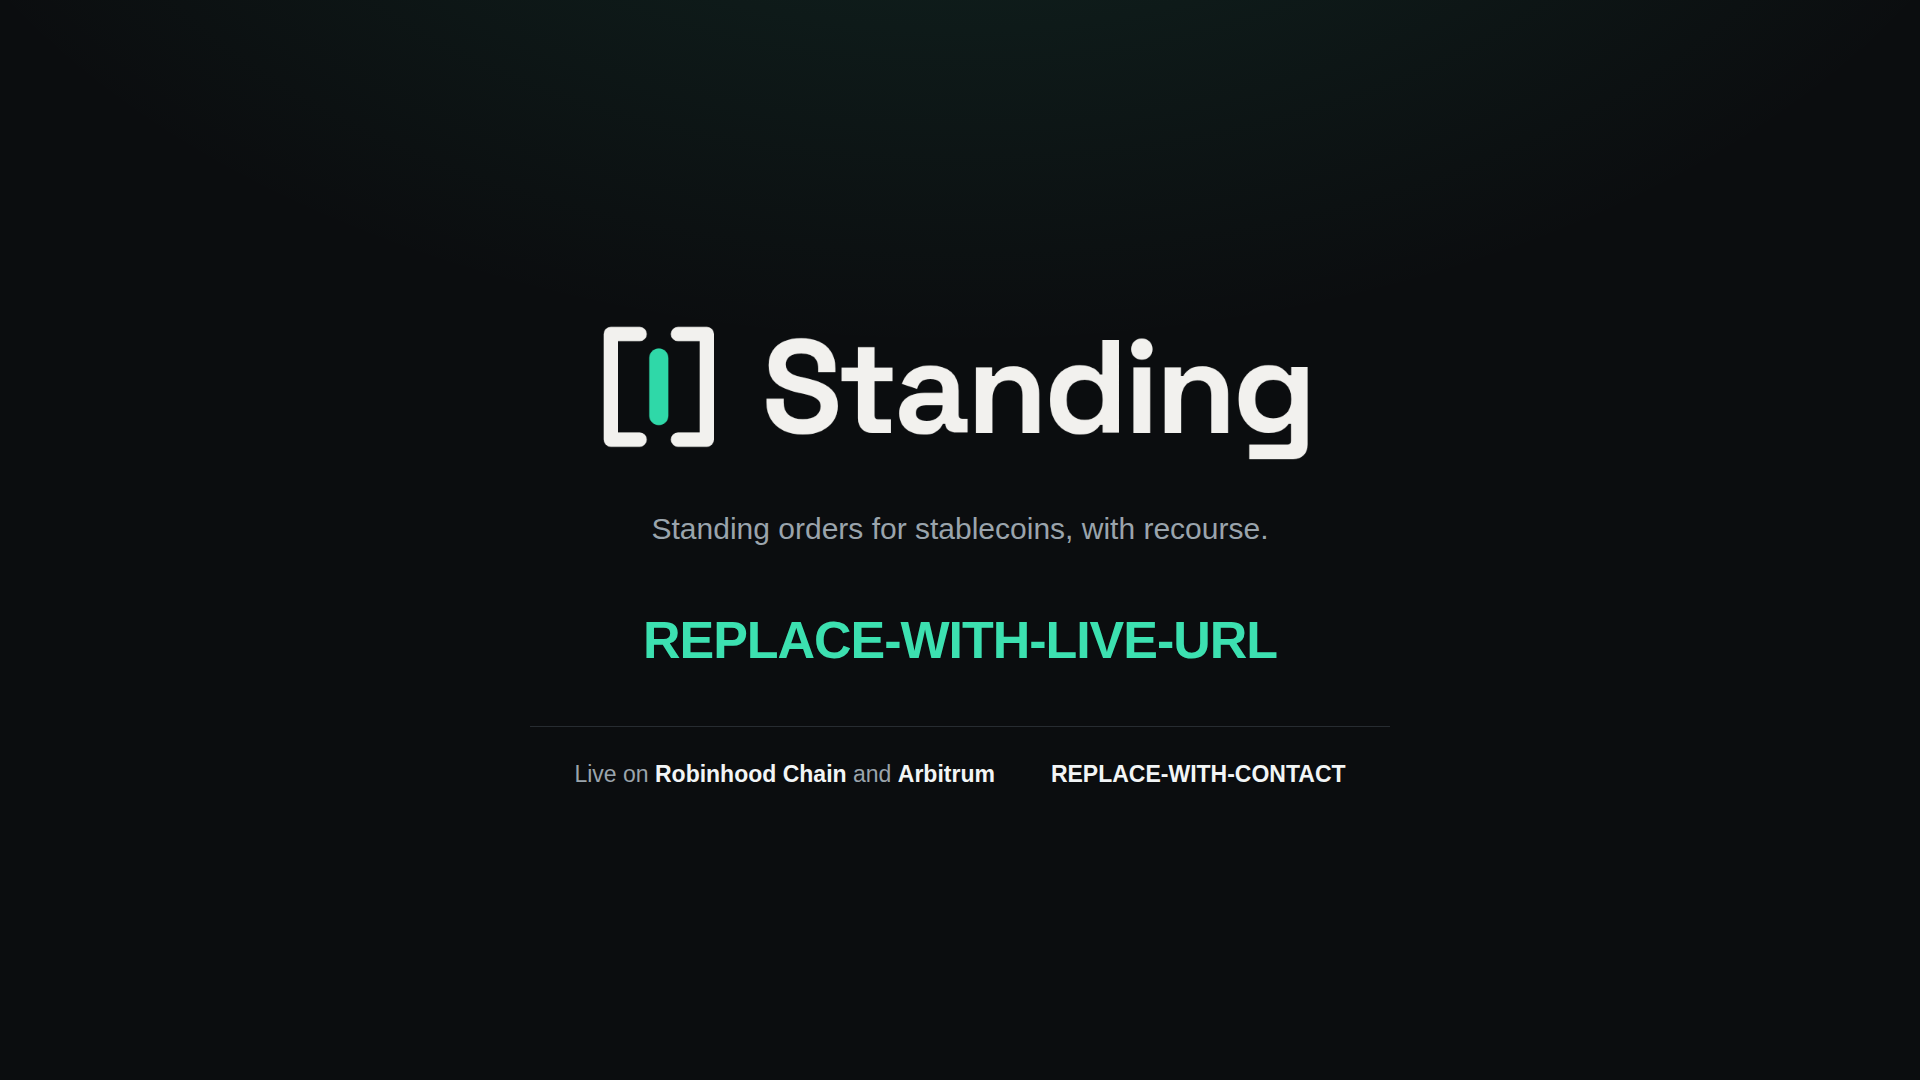
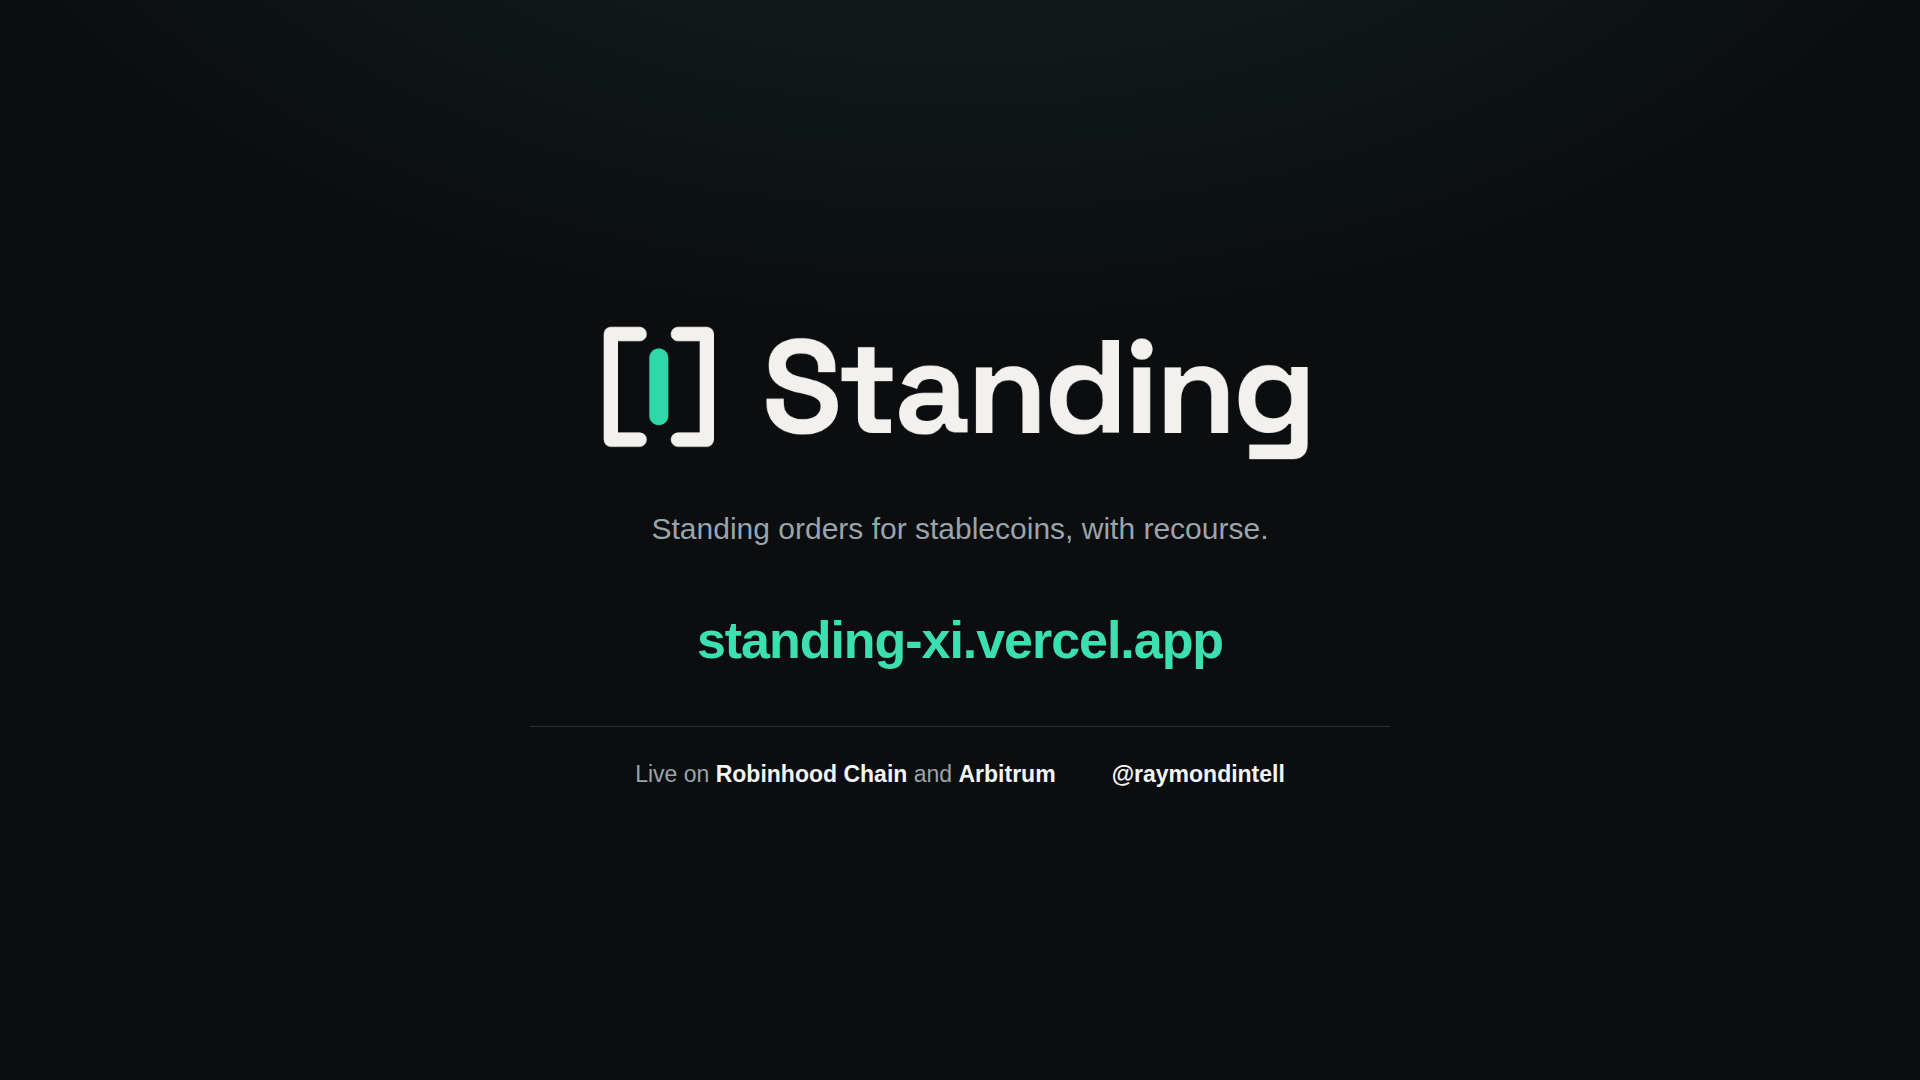
add pitch video frames, link live app

Changed region(s): [[0.3125, 0.55, 0.6562, 0.6111], [0.3125, 0.7028, 0.7188, 0.7333]]

diff --git a/design/pitch/close-frame.html b/design/pitch/close-frame.html
@@ -43,11 +43,11 @@
   <img src="../png/lockup-dark-1008x256.png" alt="Standing">
   <p class="tag">Standing orders for stablecoins, with recourse.</p>
 
-  <p class="url">REPLACE-WITH-LIVE-URL</p>
+  <p class="url">standing-xi.vercel.app</p>
 
   <div class="meta">
     <span>Live on <b>Robinhood Chain</b> and <b>Arbitrum</b></span>
-    <span><b>REPLACE-WITH-CONTACT</b></span>
+    <span><b>@raymondintell</b></span>
   </div>
 </div>
 

diff --git a/README.md b/README.md
@@ -2,6 +2,8 @@
 
 **Standing orders for stablecoins, with recourse.**
 
+Live app: **https://standing-xi.vercel.app**
+
 Blockchains can only push. Every subscription runs on pull, where the payer authorizes once and the
 payee draws funds repeatedly. That mismatch is why crypto has no subscriptions without a merchant
 taking custody, and why a payer who pre-authorized a pull has no remedy short of court.
